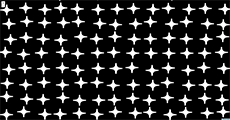
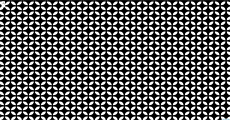
added second grid

diff --git a/lines.js b/lines.js
@@ -2,7 +2,7 @@ var max_thickness = 64;
 var max_movement = 32;
 var ball_radius = 32;
 var line_width = 8;
-var grid_size = 150;
+var grid_size = 100;
 var gap_size = 100;
 
 function getOffsetPoint(p5, x, y, z, noiseScale) {
@@ -40,7 +40,15 @@ function set_grid_size(zoom){
   else if(zoom == 5){
     gap_size =3200;
   }
-  console.log(gap_size);
+  else if(zoom == 6){
+    gap_size =6400;
+  }
+  else if(zoom == 7){
+    gap_size =12800;
+  }
+  else if(zoom == 8){
+    gap_size =25600;
+  }
 }
 /*
  * This is the funciton to implement to make your own abstract design.
@@ -71,13 +79,13 @@ function drawGrid(p5, x1, x2, y1, y2, z, zoom) {
   var cur_line_width = c_plwidth - c_p00;
   var cur_ball_radius = c_pball - c_p00;
 
-  p5.background(0);
+  p5.background(255);
   p5.fill(0, 0, 128);
   for(var x=min_x; x<max_x; x+=grid_size) {
     for(var y=min_y; y<max_y; y+=grid_size) {
-      var shift_point = getOffsetPoint(p5, x, y, z, 0.1);
-      var x_pos = p5.map(shift_point[0], x1, x2, 0, 256);
-      var y_pos = p5.map(shift_point[1], y1, y2, 0, 256);
+      //var shift_point = getOffsetPoint(p5, x, y, z, 0.1);
+      var x_pos = p5.map(x, x1, x2, 0, 256);
+      var y_pos = p5.map(y, y1, y2, 0, 256);
 
       
       //p5.stroke(0, 0, 0);
@@ -96,6 +104,7 @@ function drawGrid(p5, x1, x2, y1, y2, z, zoom) {
 
       //p5.noStroke();
       //p5.ellipse(x_pos, y_pos, cur_ball_radius);
+      drawShape(p5, x_pos + (gap_size/2), y_pos + (gap_size/2), gap_size/2);
       drawShape(p5, x_pos, y_pos, gap_size/2);
     }
   }
@@ -107,7 +116,7 @@ function drawShape(p5,xpos, ypos, size){
   // p5.ellipse(xpos - size, ypos, size/2);
   // p5.ellipse(xpos, ypos + size, size/2);
   // p5.ellipse(xpos, ypos - size, size/2);
-  p5.stroke(255);
+  p5.stroke(0);
   // p5.push();
   // //print("Draw shape was called at: " + xpos + " , " + ypos);
   // p5.translate(xpos - (size * 0.5), ypos - (size * 0.5));

diff --git a/README.md b/README.md
@@ -1,8 +1,6 @@
 ## Powers of 10 PRINT
 
-EXPERIMENT
-
-I offset the shapes using a nosie function to make them appear more randomly placed. I inverted the colours to make it look like a night sky with stars. I think the scene is too crowded so with continue with a grid for now.
+I offset a second grid, I believe this creates a more interesting pattern at the top level. In my next commits I will add the third layer of detail.
 
 I have made the grid work for panning and zooming up to 6x (I will make it zoom further in my next commits).
 
